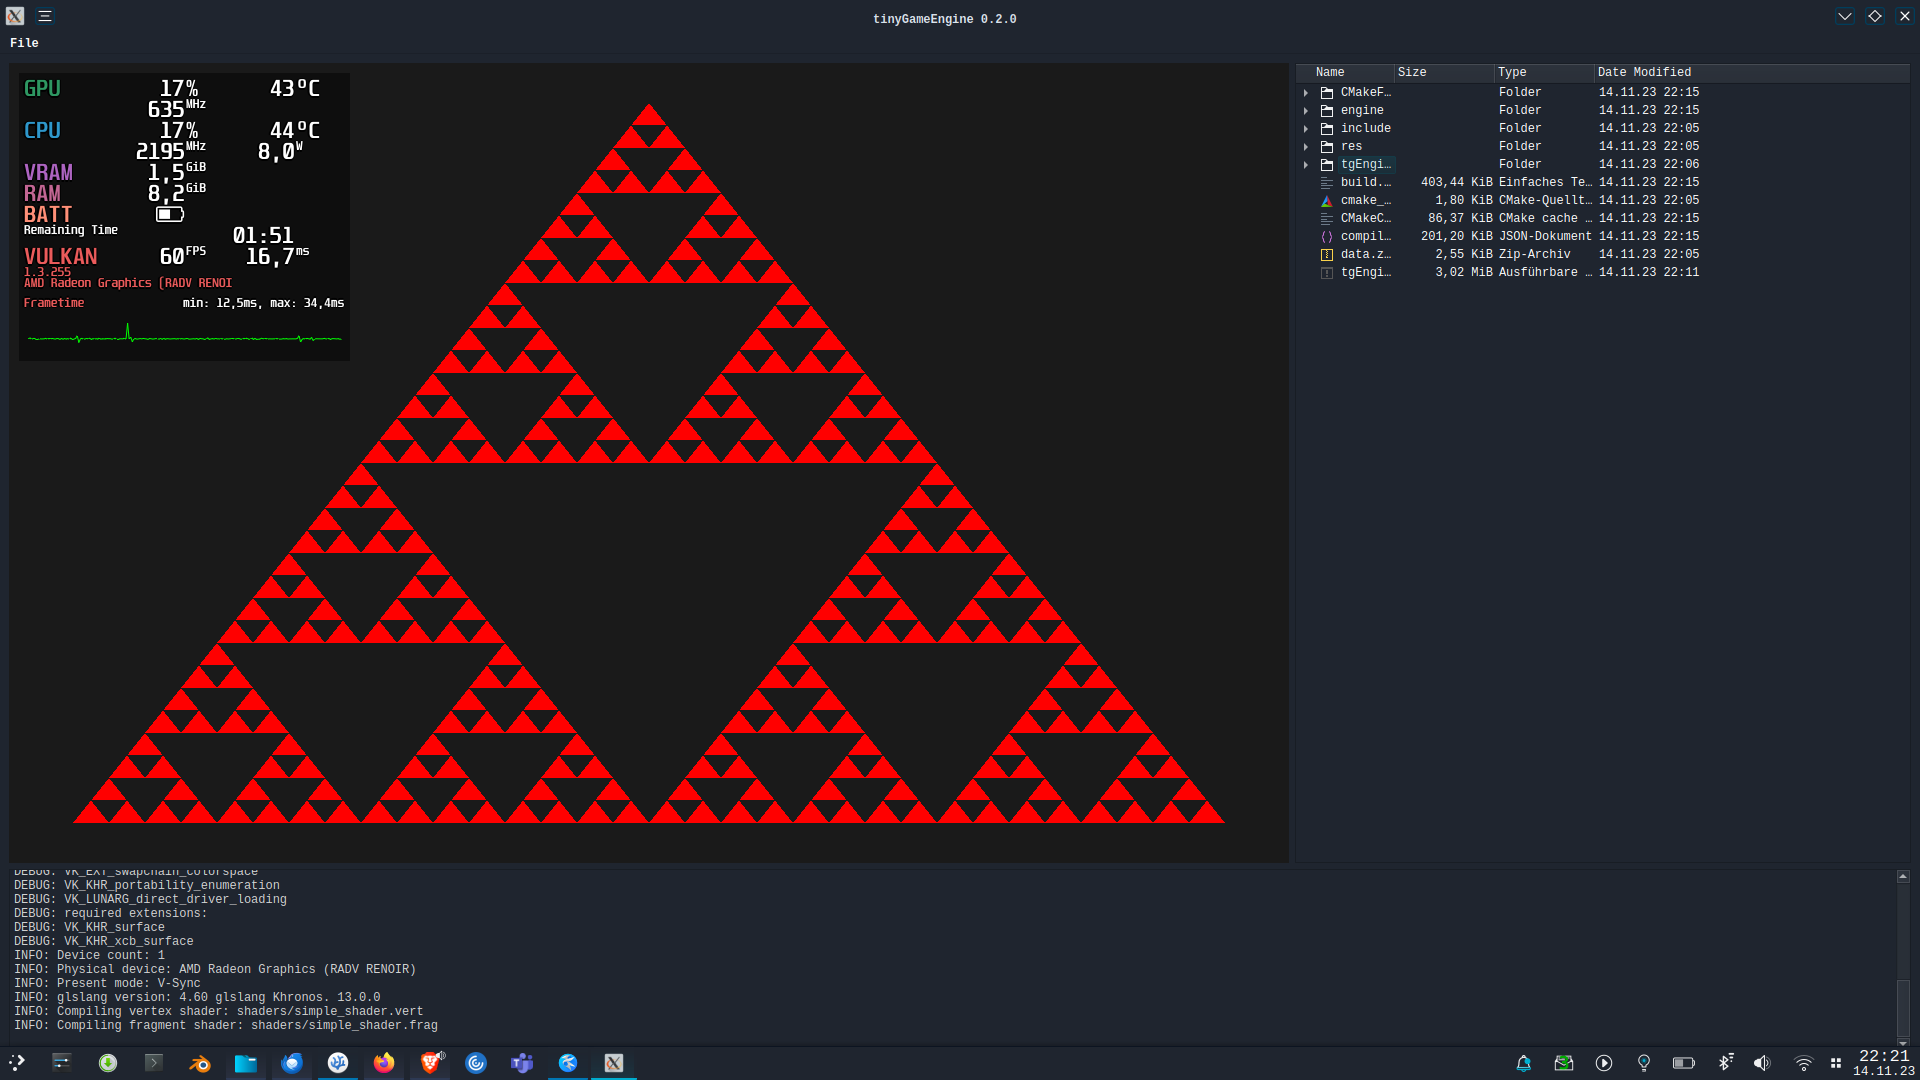
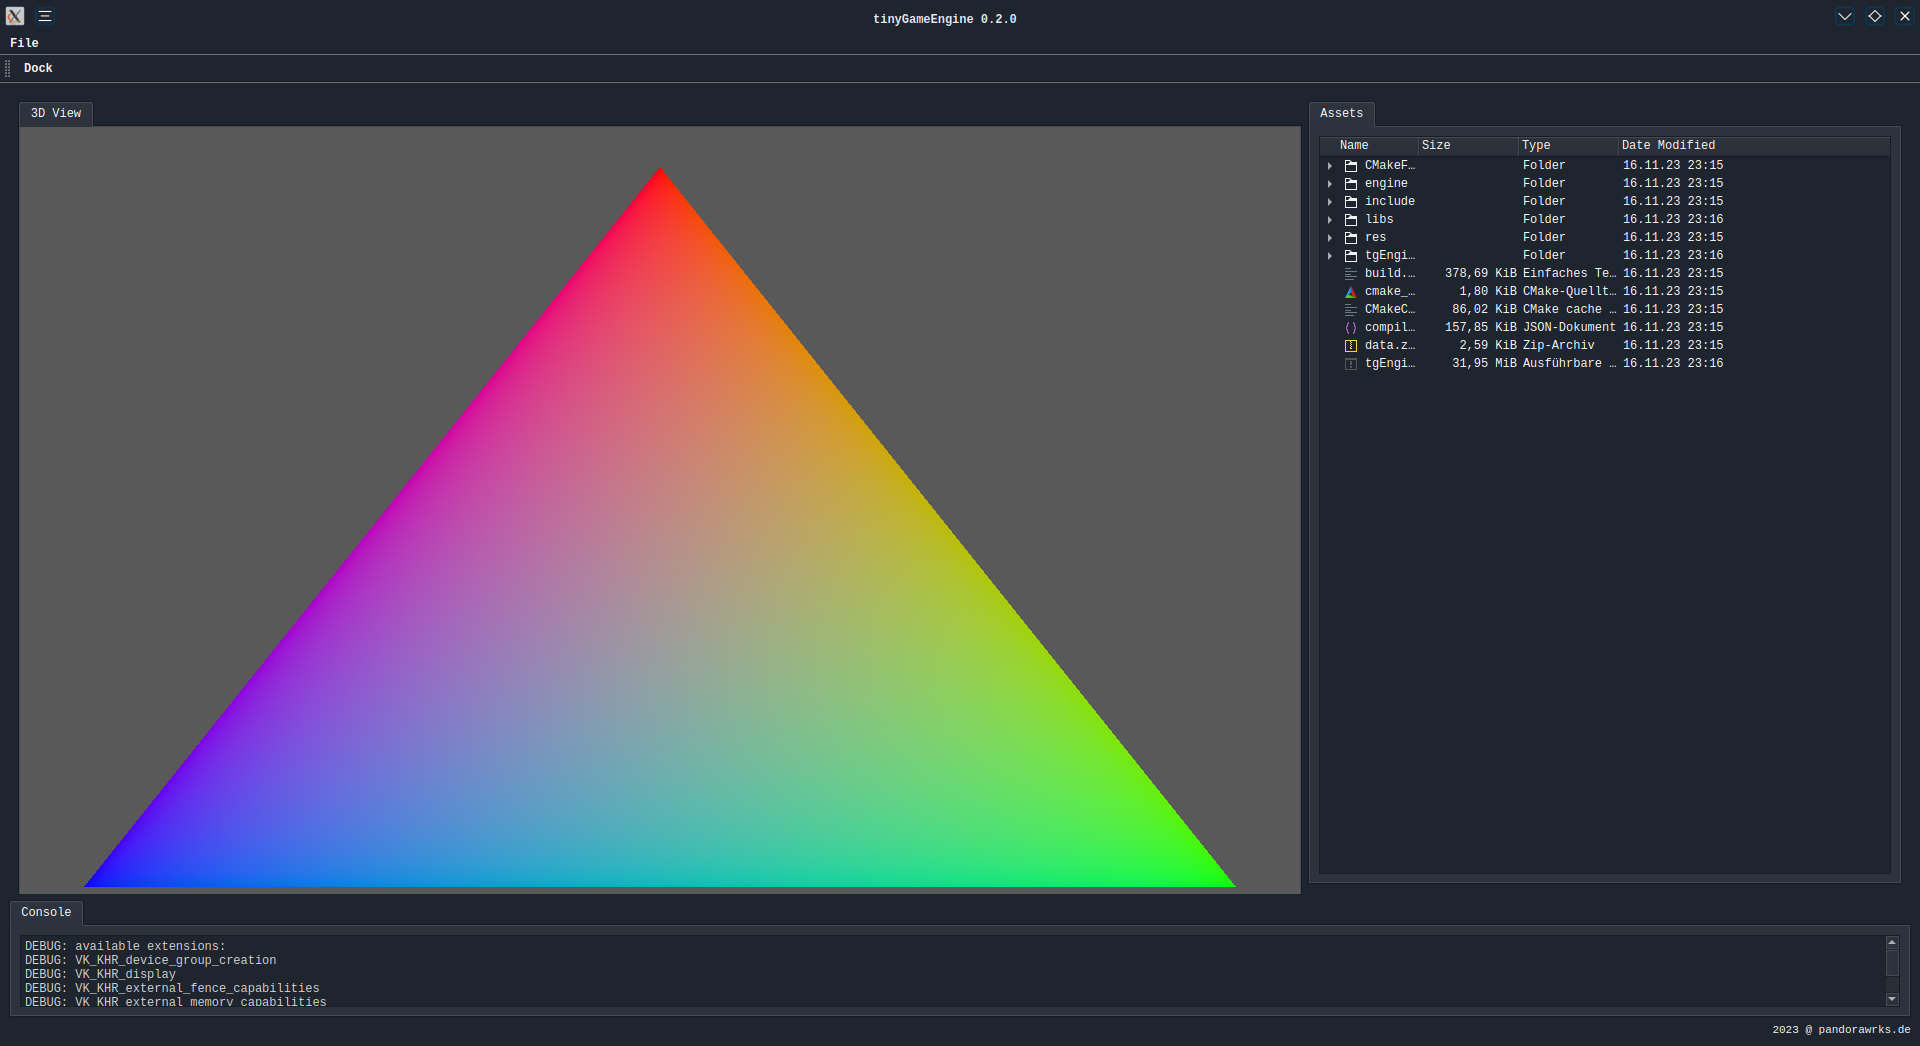
Window docking working

diff --git a/engine/src/vulkan/tge_window.cpp b/engine/src/vulkan/tge_window.cpp
@@ -1,7 +1,5 @@
 #include "vulkan/tge_window.hpp"
-
 #include "debug/tge_vulDebug.hpp"
-
 #include "GLFW/glfw3.h"
 
 // include std
@@ -10,106 +8,77 @@
 
 namespace tge {
 
-  TgeWindow::TgeWindow(int w, int h, std::string name, QWidget *parent) : width{w}, height{h}, windowName{name} {
-    initWindow();
-  }
-
-  TgeWindow::~TgeWindow() {
-    glfwDestroyWindow(window);
-    glfwTerminate();
-  }
-
-  void TgeWindow::initWindow() {
-    glfwInit();
-    glfwWindowHint(GLFW_CLIENT_API, GLFW_NO_API);
-    glfwWindowHint(GLFW_RESIZABLE, GLFW_TRUE);
-    glfwWindowHint(GLFW_DECORATED, GLFW_TRUE);
-
-    window = glfwCreateWindow(width, height, windowName.c_str(), nullptr, nullptr);
-    glfwSetWindowUserPointer(window, this);
-    glfwSetFramebufferSizeCallback(window, framebufferResizeCallback);
-
-    int xpos = 0;
-    int ypos = 0;
-    glfwSetWindowPos(window, xpos, ypos);
-  }
-    
-  void TgeWindow::createWindowSurface(VkInstance instance, VkSurfaceKHR *surface) {
-    if(glfwCreateWindowSurface(instance, window, nullptr, surface) != VK_SUCCESS) {
-
-      TgeVulDebug vulDebug;
-      vulDebug.writeToBuffer("failed to create window surface", MessageType::Critical);
-
-      throw std::runtime_error("failed to create window surface");
+    TgeWindow::TgeWindow(int w, int h, std::string name, QWidget *parent) 
+        : width{w}, height{h}, windowName{name} {
+        initWindow();
     }
-  }
 
-  void TgeWindow::framebufferResizeCallback(GLFWwindow *window, int width, int height) {
-    auto tgeWindow = reinterpret_cast<TgeWindow *>(glfwGetWindowUserPointer(window));
-    tgeWindow->framebufferResized = true;
-    tgeWindow->width = width;
-    tgeWindow->height = height;
-  }
+    TgeWindow::~TgeWindow() {
+        glfwDestroyWindow(window);
+        glfwTerminate();
+    }
 
-  void TgeWindow::integrateInto(QWidget* placeholder) {
-    #ifdef _WIN32
-      // Windows-specific code
-      HWND win32NativeWindow = glfwGetWin32Window(window); // Get the GLFW window's native handle
+    void TgeWindow::initWindow() {
+        glfwInit();
+        glfwWindowHint(GLFW_CLIENT_API, GLFW_NO_API);
+        glfwWindowHint(GLFW_RESIZABLE, GLFW_TRUE);
+        glfwWindowHint(GLFW_DECORATED, GLFW_TRUE);
 
-      HWND qtNativeWindow = reinterpret_cast<HWND>(static_cast<UINT_PTR>(placeholder->winId())); // Get the Qt placeholder's native handle
+        window = glfwCreateWindow(width, height, windowName.c_str(), nullptr, nullptr);
+        glfwSetWindowUserPointer(window, this);
+        glfwSetFramebufferSizeCallback(window, framebufferResizeCallback);
 
-      // You may need to do additional setup for integrating with Qt on Windows
-      // For example, setting parent-child relationships or window styles.
+        int xpos = 0;
+        int ypos = 0;
+        glfwSetWindowPos(window, xpos, ypos);
+    }
 
-      // Reparenting code specific to Windows, if necessary.
-      // Example:
-      SetParent(win32NativeWindow, qtNativeWindow);
+    void TgeWindow::createWindowSurface(VkInstance instance, VkSurfaceKHR *surface) {
+        if (glfwCreateWindowSurface(instance, window, nullptr, surface) != VK_SUCCESS) {
+            TgeVulDebug vulDebug;
+            vulDebug.writeToBuffer("failed to create window surface", MessageType::Critical);
+            throw std::runtime_error("failed to create window surface");
+        }
+    }
 
-      // Show the GLFW window
-      glfwShowWindow(window);
-    #else
-      // Linux-specific code (X11)
-      Window x11NativeWindow = glfwGetX11Window(window);
-      Window qtNativeWindow = static_cast<Window>(placeholder->winId());
+    void TgeWindow::framebufferResizeCallback(GLFWwindow *window, int width, int height) {
+        auto tgeWindow = reinterpret_cast<TgeWindow *>(glfwGetWindowUserPointer(window));
+        tgeWindow->framebufferResized = true;
+        tgeWindow->width = width;
+        tgeWindow->height = height;
+    }
 
-      Display* display = glfwGetX11Display();
+    void TgeWindow::integrateInto(QTabWidget* vulkanWindowWidget, int tabIndex) {
+        QWidget* tab = vulkanWindowWidget->widget(tabIndex);
+        auto nativeWindow = getNativeWindowHandle();
 
-      // Reparenting code for X11
-      XReparentWindow(display, x11NativeWindow, qtNativeWindow, 0, 0);
-
-      // Show the GLFW window
-      glfwShowWindow(window);
-  #endif
-  }
-
-    void TgeWindow::dockInto(QWidget* placeholderWidget) {
         #ifdef _WIN32
-            HWND winHandle = glfwGetWin32Window(window);
-            HWND qtWinHandle = (HWND)placeholderWidget->winId();
-            // Windows-specific docking logic
-            // ...
-        #elif defined(__linux__)
-            Window x11NativeWindow = glfwGetX11Window(window);
-            Window qtNativeWindow = (Window)placeholderWidget->winId();
+            SetParent(nativeWindow, (HWND)tab->winId());
+            SetWindowPos(nativeWindow, HWND_TOP, 0, 0, tab->width(), tab->height(), SWP_SHOWWINDOW);
+        #else
             Display* display = glfwGetX11Display();
-            XReparentWindow(display, x11NativeWindow, qtNativeWindow, 0, 0);
-            XResizeWindow(display, x11NativeWindow, placeholderWidget->width(), placeholderWidget->height());
-            XMapWindow(display, x11NativeWindow);
+            XReparentWindow(display, nativeWindow, tab->winId(), 0, 0);
+            XResizeWindow(display, nativeWindow, tab->width(), tab->height());
+            XMapWindow(display, nativeWindow);
         #endif
+
+        std::cout << tab->width() << '\n' << tab->height();
     }
 
     void TgeWindow::undockFrom(QWidget* placeholderWidget) {
+        auto nativeWindow = getNativeWindowHandle();
+
         #ifdef _WIN32
-            HWND winHandle = glfwGetWin32Window(window);
-            // Windows-specific undocking logic
-            // ...
-        #elif defined(__linux__)
-            Window x11NativeWindow = glfwGetX11Window(window);
+            SetParent(nativeWindow, NULL); // Detach from parent
+            SetWindowLongPtr(nativeWindow, GWL_STYLE, WS_OVERLAPPEDWINDOW | WS_VISIBLE);
+            SetWindowPos(nativeWindow, HWND_TOP, 200, 200, 800, 600, SWP_SHOWWINDOW);
+            SetForegroundWindow(nativeWindow);
+            SetFocus(nativeWindow);
+        #else
             Display* display = glfwGetX11Display();
-            XReparentWindow(display, x11NativeWindow, DefaultRootWindow(display), 200, 200);
-            XMapWindow(display, x11NativeWindow);
+            XReparentWindow(display, nativeWindow, DefaultRootWindow(display), 200, 200);
+            XMapRaised(display, nativeWindow);
+            XSetInputFocus(display, nativeWindow, RevertToParent, CurrentTime);
         #endif
     }
-
 } // namespace tge
-

diff --git a/editor/src/main.cpp b/editor/src/main.cpp
@@ -13,6 +13,7 @@
 // std
 #include <cstdlib>
 #include <iostream>
+#include <qtabwidget.h>
 #include <stdexcept>
 #include <chrono>
 #include <thread>
@@ -44,22 +45,27 @@ int main(int argc, char *argv[]) {
     MainWindow w(vulkan_window);
 
     // Setup tree view
-    QTreeView* treeView = w.findChild<QTreeView*>("treeView");
+    QTreeView* assets_browser = w.findChild<QTreeView*>("treeView");
+    if (!assets_browser) {
+        qCritical() << "Failed to find treeView(assets_browser)";
+        splash.close();
+        return EXIT_FAILURE;
+    }
+
     QFileSystemModel fileSystemModel;
     fileSystemModel.setRootPath(QDir::rootPath());
-    treeView->setModel(&fileSystemModel);
-    treeView->setRootIndex(fileSystemModel.index(QDir::currentPath()));
+    assets_browser->setModel(&fileSystemModel);
+    assets_browser->setRootIndex(fileSystemModel.index(QDir::currentPath()));
 
-    // Setup GLFW placeholder
-    QWidget* glfwPlaceholder = w.findChild<QWidget*>("glfwPlaceholder");
-    if (!glfwPlaceholder) {
-        qCritical() << "Failed to find glfwPlaceholder";
+    QTabWidget* vulkanViewWidget = w.findChild<QTabWidget*>("VulkanView_Widget");
+    if (!vulkanViewWidget) {
+        qCritical() << "Failed to find vulkanViewWidget";
         splash.close();
         return EXIT_FAILURE;
     }
 
     // Integrate Vulkan window into the placeholder widget
-    vulkan_window.integrateInto(glfwPlaceholder);
+    vulkan_window.integrateInto(vulkanViewWidget, vulkanViewWidget->currentIndex());
 
     // Setup debug console
     QTextEdit* debugConsole = w.findChild<QTextEdit*>("debugConsole");

diff --git a/engine/include/vulkan/tge_window.hpp b/engine/include/vulkan/tge_window.hpp
@@ -1,6 +1,7 @@
 #pragma once
 
 #include <QWidget>
+#include <QTabWidget>
 
 #include <vulkan/vulkan.hpp>
 #include <GLFW/glfw3.h>
@@ -45,11 +46,17 @@ namespace tge {
     		}
 
 			void createWindowSurface(VkInstance instance, VkSurfaceKHR *surface);
-			void integrateInto(QWidget* placeholder);
-			void dockInto(QWidget* placeholder);
+			void integrateInto(QTabWidget* vulkanWindowWidget, int tabIndex);
     		void undockFrom(QWidget* placeholder);
 
 		private:
+    		auto getNativeWindowHandle() {
+        		#ifdef _WIN32
+            		return glfwGetWin32Window(window);
+        		#else
+            		return glfwGetX11Window(window);
+        		#endif
+    		}
 
 			static void framebufferResizeCallback(GLFWwindow *window, int width, int height);
 			GLFWwindow *window;

diff --git a/editor/src/ui/tge_mainwindow.cpp b/editor/src/ui/tge_mainwindow.cpp
@@ -36,7 +36,7 @@ void MainWindow::toggleDocking() {
         isDocked = false;
     } else {
         // Dock the GLFW window
-        window_.dockInto(this); // You need to implement this method in TgeWindow
+        window_.integrateInto(ui->VulkanView_Widget, ui->VulkanView_Widget->currentIndex()); // You need to implement this method in TgeWindow
         isDocked = true;
     }
 }
